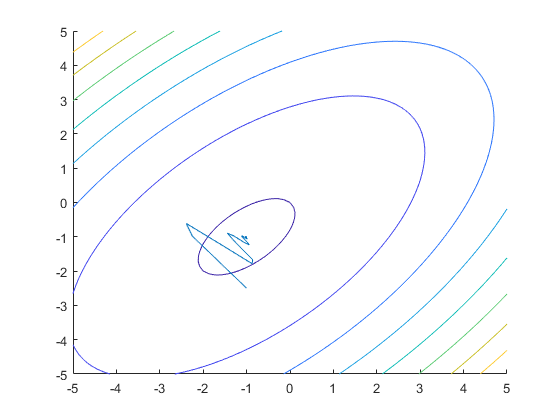
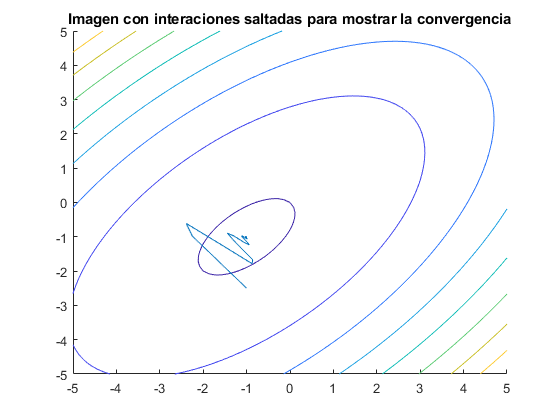
Add files via upload

Changed region(s): [[0.1214, 0.031, 0.9107, 0.0619]]

diff --git a/Problemas/E12_3ii.html b/Problemas/E12_3ii.html
@@ -118,6 +118,7 @@ k=1;
 <span class="keyword">end</span>
 hold <span class="string">on</span>;
 fcontour(F_x)
+title(<span class="string">'Imagen con interaciones saltadas para mostrar la convergencia'</span>)
 plot(X_p(:,1),X_p(:,2))
 </pre><img vspace="5" hspace="5" src="E12_3ii_01.png" alt=""> <img vspace="5" hspace="5" src="E12_3ii_02.png" alt=""> <p class="footer"><br><a href="https://www.mathworks.com/products/matlab/">Published with MATLAB&reg; R2021b</a><br></p></div><!--
 ##### SOURCE BEGIN #####
@@ -172,6 +173,7 @@ for i=1:50:2500
 end
 hold on;
 fcontour(F_x)
+title('Imagen con interaciones saltadas para mostrar la convergencia')
 plot(X_p(:,1),X_p(:,2))
 ##### SOURCE END #####
 --></body></html>
